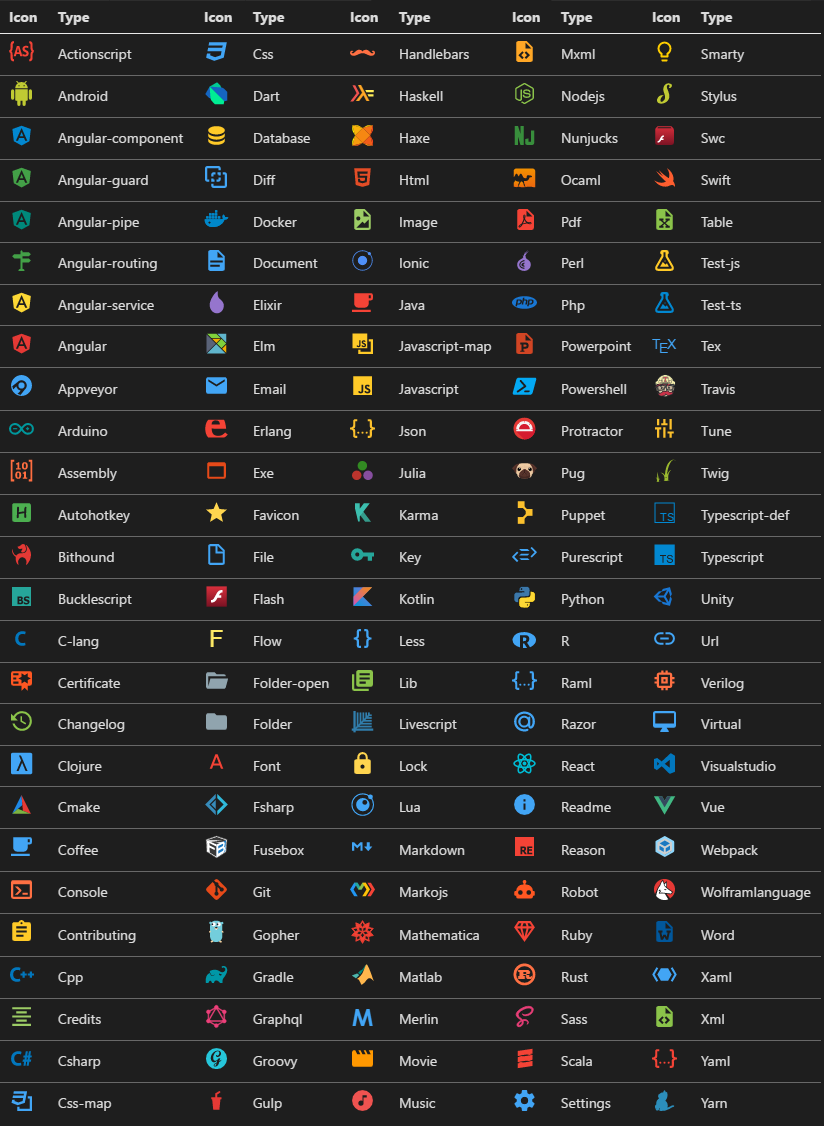
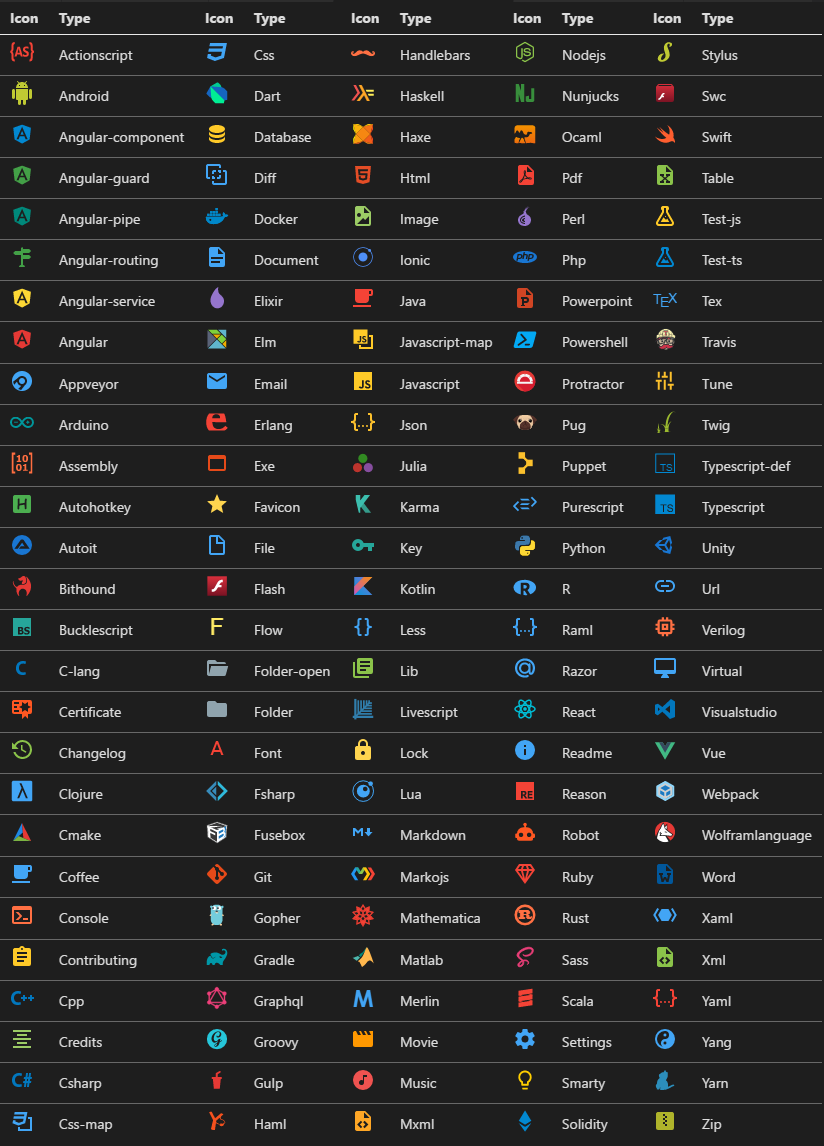
updated iconset

Changed region(s): [[0.4854, 0.0, 1.0, 0.9947], [0.0, 0.0, 0.4551, 0.9947], [0.4248, 0.0, 0.4551, 0.0311]]

diff --git a/images/iconsetScript.js b/images/iconsetScript.js
@@ -65,7 +65,7 @@ fs.readdir(folder, (err, files) => {
     // write the image tags for the icons
     for (let i = 0; i < items_per_column; i++) {
         for (let c = 0; c < columns_list.length; c++) {
-            fs.appendFileSync(path.join('images', generatedFileName), '|<img src="./../icons/' + columns_list[c][i].fileName + '" width="25px">|'+ columns_list[c][i].iconName);
+            fs.appendFileSync(path.join('images', generatedFileName), '|<img src="./../icons/' + columns_list[c][i].fileName + '" width="24px">|'+ columns_list[c][i].iconName);
         }
         fs.appendFileSync(path.join('images', generatedFileName), "|\n");
     }

diff --git a/images/allicons.md b/images/allicons.md
@@ -1,28 +1,29 @@
 |Icon|Type|Icon|Type|Icon|Type|Icon|Type|Icon|Type|
 |---|---|---|---|---|---|---|---|---|---|
-|<img src="./../icons/actionscript.svg" width="25px">|Actionscript|<img src="./../icons/css.svg" width="25px">|Css|<img src="./../icons/handlebars.svg" width="25px">|Handlebars|<img src="./../icons/mxml.svg" width="25px">|Mxml|<img src="./../icons/smarty.svg" width="25px">|Smarty|
-|<img src="./../icons/android.svg" width="25px">|Android|<img src="./../icons/dart.svg" width="25px">|Dart|<img src="./../icons/haskell.svg" width="25px">|Haskell|<img src="./../icons/nodejs.svg" width="25px">|Nodejs|<img src="./../icons/stylus.svg" width="25px">|Stylus|
-|<img src="./../icons/angular-component.svg" width="25px">|Angular-component|<img src="./../icons/database.svg" width="25px">|Database|<img src="./../icons/haxe.svg" width="25px">|Haxe|<img src="./../icons/nunjucks.svg" width="25px">|Nunjucks|<img src="./../icons/swc.svg" width="25px">|Swc|
-|<img src="./../icons/angular-guard.svg" width="25px">|Angular-guard|<img src="./../icons/diff.svg" width="25px">|Diff|<img src="./../icons/html.svg" width="25px">|Html|<img src="./../icons/ocaml.svg" width="25px">|Ocaml|<img src="./../icons/swift.svg" width="25px">|Swift|
-|<img src="./../icons/angular-pipe.svg" width="25px">|Angular-pipe|<img src="./../icons/docker.svg" width="25px">|Docker|<img src="./../icons/image.svg" width="25px">|Image|<img src="./../icons/pdf.svg" width="25px">|Pdf|<img src="./../icons/table.svg" width="25px">|Table|
-|<img src="./../icons/angular-routing.svg" width="25px">|Angular-routing|<img src="./../icons/document.svg" width="25px">|Document|<img src="./../icons/ionic.svg" width="25px">|Ionic|<img src="./../icons/perl.svg" width="25px">|Perl|<img src="./../icons/test-js.svg" width="25px">|Test-js|
-|<img src="./../icons/angular-service.svg" width="25px">|Angular-service|<img src="./../icons/elixir.svg" width="25px">|Elixir|<img src="./../icons/java.svg" width="25px">|Java|<img src="./../icons/php.svg" width="25px">|Php|<img src="./../icons/test-ts.svg" width="25px">|Test-ts|
-|<img src="./../icons/angular.svg" width="25px">|Angular|<img src="./../icons/elm.svg" width="25px">|Elm|<img src="./../icons/javascript-map.svg" width="25px">|Javascript-map|<img src="./../icons/powerpoint.svg" width="25px">|Powerpoint|<img src="./../icons/tex.svg" width="25px">|Tex|
-|<img src="./../icons/appveyor.svg" width="25px">|Appveyor|<img src="./../icons/email.svg" width="25px">|Email|<img src="./../icons/javascript.svg" width="25px">|Javascript|<img src="./../icons/powershell.svg" width="25px">|Powershell|<img src="./../icons/travis.svg" width="25px">|Travis|
-|<img src="./../icons/arduino.svg" width="25px">|Arduino|<img src="./../icons/erlang.svg" width="25px">|Erlang|<img src="./../icons/json.svg" width="25px">|Json|<img src="./../icons/protractor.svg" width="25px">|Protractor|<img src="./../icons/tune.svg" width="25px">|Tune|
-|<img src="./../icons/assembly.svg" width="25px">|Assembly|<img src="./../icons/exe.svg" width="25px">|Exe|<img src="./../icons/julia.svg" width="25px">|Julia|<img src="./../icons/pug.svg" width="25px">|Pug|<img src="./../icons/twig.svg" width="25px">|Twig|
-|<img src="./../icons/autohotkey.svg" width="25px">|Autohotkey|<img src="./../icons/favicon.svg" width="25px">|Favicon|<img src="./../icons/karma.svg" width="25px">|Karma|<img src="./../icons/puppet.svg" width="25px">|Puppet|<img src="./../icons/typescript-def.svg" width="25px">|Typescript-def|
-|<img src="./../icons/bithound.svg" width="25px">|Bithound|<img src="./../icons/file.svg" width="25px">|File|<img src="./../icons/key.svg" width="25px">|Key|<img src="./../icons/purescript.svg" width="25px">|Purescript|<img src="./../icons/typescript.svg" width="25px">|Typescript|
-|<img src="./../icons/bucklescript.svg" width="25px">|Bucklescript|<img src="./../icons/flash.svg" width="25px">|Flash|<img src="./../icons/kotlin.svg" width="25px">|Kotlin|<img src="./../icons/python.svg" width="25px">|Python|<img src="./../icons/unity.svg" width="25px">|Unity|
-|<img src="./../icons/c-lang.svg" width="25px">|C-lang|<img src="./../icons/flow.svg" width="25px">|Flow|<img src="./../icons/less.svg" width="25px">|Less|<img src="./../icons/r.svg" width="25px">|R|<img src="./../icons/url.svg" width="25px">|Url|
-|<img src="./../icons/certificate.svg" width="25px">|Certificate|<img src="./../icons/folder-open.svg" width="25px">|Folder-open|<img src="./../icons/lib.svg" width="25px">|Lib|<img src="./../icons/raml.svg" width="25px">|Raml|<img src="./../icons/verilog.svg" width="25px">|Verilog|
-|<img src="./../icons/changelog.svg" width="25px">|Changelog|<img src="./../icons/folder.svg" width="25px">|Folder|<img src="./../icons/livescript.svg" width="25px">|Livescript|<img src="./../icons/razor.svg" width="25px">|Razor|<img src="./../icons/virtual.svg" width="25px">|Virtual|
-|<img src="./../icons/clojure.svg" width="25px">|Clojure|<img src="./../icons/font.svg" width="25px">|Font|<img src="./../icons/lock.svg" width="25px">|Lock|<img src="./../icons/react.svg" width="25px">|React|<img src="./../icons/visualstudio.svg" width="25px">|Visualstudio|
-|<img src="./../icons/cmake.svg" width="25px">|Cmake|<img src="./../icons/fsharp.svg" width="25px">|Fsharp|<img src="./../icons/lua.svg" width="25px">|Lua|<img src="./../icons/readme.svg" width="25px">|Readme|<img src="./../icons/vue.svg" width="25px">|Vue|
-|<img src="./../icons/coffee.svg" width="25px">|Coffee|<img src="./../icons/fusebox.svg" width="25px">|Fusebox|<img src="./../icons/markdown.svg" width="25px">|Markdown|<img src="./../icons/reason.svg" width="25px">|Reason|<img src="./../icons/webpack.svg" width="25px">|Webpack|
-|<img src="./../icons/console.svg" width="25px">|Console|<img src="./../icons/git.svg" width="25px">|Git|<img src="./../icons/markojs.svg" width="25px">|Markojs|<img src="./../icons/robot.svg" width="25px">|Robot|<img src="./../icons/wolframlanguage.svg" width="25px">|Wolframlanguage|
-|<img src="./../icons/contributing.svg" width="25px">|Contributing|<img src="./../icons/gopher.svg" width="25px">|Gopher|<img src="./../icons/mathematica.svg" width="25px">|Mathematica|<img src="./../icons/ruby.svg" width="25px">|Ruby|<img src="./../icons/word.svg" width="25px">|Word|
-|<img src="./../icons/cpp.svg" width="25px">|Cpp|<img src="./../icons/gradle.svg" width="25px">|Gradle|<img src="./../icons/matlab.svg" width="25px">|Matlab|<img src="./../icons/rust.svg" width="25px">|Rust|<img src="./../icons/xaml.svg" width="25px">|Xaml|
-|<img src="./../icons/credits.svg" width="25px">|Credits|<img src="./../icons/graphql.svg" width="25px">|Graphql|<img src="./../icons/merlin.svg" width="25px">|Merlin|<img src="./../icons/sass.svg" width="25px">|Sass|<img src="./../icons/xml.svg" width="25px">|Xml|
-|<img src="./../icons/csharp.svg" width="25px">|Csharp|<img src="./../icons/groovy.svg" width="25px">|Groovy|<img src="./../icons/movie.svg" width="25px">|Movie|<img src="./../icons/scala.svg" width="25px">|Scala|<img src="./../icons/yaml.svg" width="25px">|Yaml|
-|<img src="./../icons/css-map.svg" width="25px">|Css-map|<img src="./../icons/gulp.svg" width="25px">|Gulp|<img src="./../icons/music.svg" width="25px">|Music|<img src="./../icons/settings.svg" width="25px">|Settings|<img src="./../icons/yarn.svg" width="25px">|Yarn|
+|<img src="./../icons/actionscript.svg" width="24px">|Actionscript|<img src="./../icons/css.svg" width="24px">|Css|<img src="./../icons/handlebars.svg" width="24px">|Handlebars|<img src="./../icons/nodejs.svg" width="24px">|Nodejs|<img src="./../icons/stylus.svg" width="24px">|Stylus|
+|<img src="./../icons/android.svg" width="24px">|Android|<img src="./../icons/dart.svg" width="24px">|Dart|<img src="./../icons/haskell.svg" width="24px">|Haskell|<img src="./../icons/nunjucks.svg" width="24px">|Nunjucks|<img src="./../icons/swc.svg" width="24px">|Swc|
+|<img src="./../icons/angular-component.svg" width="24px">|Angular-component|<img src="./../icons/database.svg" width="24px">|Database|<img src="./../icons/haxe.svg" width="24px">|Haxe|<img src="./../icons/ocaml.svg" width="24px">|Ocaml|<img src="./../icons/swift.svg" width="24px">|Swift|
+|<img src="./../icons/angular-guard.svg" width="24px">|Angular-guard|<img src="./../icons/diff.svg" width="24px">|Diff|<img src="./../icons/html.svg" width="24px">|Html|<img src="./../icons/pdf.svg" width="24px">|Pdf|<img src="./../icons/table.svg" width="24px">|Table|
+|<img src="./../icons/angular-pipe.svg" width="24px">|Angular-pipe|<img src="./../icons/docker.svg" width="24px">|Docker|<img src="./../icons/image.svg" width="24px">|Image|<img src="./../icons/perl.svg" width="24px">|Perl|<img src="./../icons/test-js.svg" width="24px">|Test-js|
+|<img src="./../icons/angular-routing.svg" width="24px">|Angular-routing|<img src="./../icons/document.svg" width="24px">|Document|<img src="./../icons/ionic.svg" width="24px">|Ionic|<img src="./../icons/php.svg" width="24px">|Php|<img src="./../icons/test-ts.svg" width="24px">|Test-ts|
+|<img src="./../icons/angular-service.svg" width="24px">|Angular-service|<img src="./../icons/elixir.svg" width="24px">|Elixir|<img src="./../icons/java.svg" width="24px">|Java|<img src="./../icons/powerpoint.svg" width="24px">|Powerpoint|<img src="./../icons/tex.svg" width="24px">|Tex|
+|<img src="./../icons/angular.svg" width="24px">|Angular|<img src="./../icons/elm.svg" width="24px">|Elm|<img src="./../icons/javascript-map.svg" width="24px">|Javascript-map|<img src="./../icons/powershell.svg" width="24px">|Powershell|<img src="./../icons/travis.svg" width="24px">|Travis|
+|<img src="./../icons/appveyor.svg" width="24px">|Appveyor|<img src="./../icons/email.svg" width="24px">|Email|<img src="./../icons/javascript.svg" width="24px">|Javascript|<img src="./../icons/protractor.svg" width="24px">|Protractor|<img src="./../icons/tune.svg" width="24px">|Tune|
+|<img src="./../icons/arduino.svg" width="24px">|Arduino|<img src="./../icons/erlang.svg" width="24px">|Erlang|<img src="./../icons/json.svg" width="24px">|Json|<img src="./../icons/pug.svg" width="24px">|Pug|<img src="./../icons/twig.svg" width="24px">|Twig|
+|<img src="./../icons/assembly.svg" width="24px">|Assembly|<img src="./../icons/exe.svg" width="24px">|Exe|<img src="./../icons/julia.svg" width="24px">|Julia|<img src="./../icons/puppet.svg" width="24px">|Puppet|<img src="./../icons/typescript-def.svg" width="24px">|Typescript-def|
+|<img src="./../icons/autohotkey.svg" width="24px">|Autohotkey|<img src="./../icons/favicon.svg" width="24px">|Favicon|<img src="./../icons/karma.svg" width="24px">|Karma|<img src="./../icons/purescript.svg" width="24px">|Purescript|<img src="./../icons/typescript.svg" width="24px">|Typescript|
+|<img src="./../icons/autoit.svg" width="24px">|Autoit|<img src="./../icons/file.svg" width="24px">|File|<img src="./../icons/key.svg" width="24px">|Key|<img src="./../icons/python.svg" width="24px">|Python|<img src="./../icons/unity.svg" width="24px">|Unity|
+|<img src="./../icons/bithound.svg" width="24px">|Bithound|<img src="./../icons/flash.svg" width="24px">|Flash|<img src="./../icons/kotlin.svg" width="24px">|Kotlin|<img src="./../icons/r.svg" width="24px">|R|<img src="./../icons/url.svg" width="24px">|Url|
+|<img src="./../icons/bucklescript.svg" width="24px">|Bucklescript|<img src="./../icons/flow.svg" width="24px">|Flow|<img src="./../icons/less.svg" width="24px">|Less|<img src="./../icons/raml.svg" width="24px">|Raml|<img src="./../icons/verilog.svg" width="24px">|Verilog|
+|<img src="./../icons/c-lang.svg" width="24px">|C-lang|<img src="./../icons/folder-open.svg" width="24px">|Folder-open|<img src="./../icons/lib.svg" width="24px">|Lib|<img src="./../icons/razor.svg" width="24px">|Razor|<img src="./../icons/virtual.svg" width="24px">|Virtual|
+|<img src="./../icons/certificate.svg" width="24px">|Certificate|<img src="./../icons/folder.svg" width="24px">|Folder|<img src="./../icons/livescript.svg" width="24px">|Livescript|<img src="./../icons/react.svg" width="24px">|React|<img src="./../icons/visualstudio.svg" width="24px">|Visualstudio|
+|<img src="./../icons/changelog.svg" width="24px">|Changelog|<img src="./../icons/font.svg" width="24px">|Font|<img src="./../icons/lock.svg" width="24px">|Lock|<img src="./../icons/readme.svg" width="24px">|Readme|<img src="./../icons/vue.svg" width="24px">|Vue|
+|<img src="./../icons/clojure.svg" width="24px">|Clojure|<img src="./../icons/fsharp.svg" width="24px">|Fsharp|<img src="./../icons/lua.svg" width="24px">|Lua|<img src="./../icons/reason.svg" width="24px">|Reason|<img src="./../icons/webpack.svg" width="24px">|Webpack|
+|<img src="./../icons/cmake.svg" width="24px">|Cmake|<img src="./../icons/fusebox.svg" width="24px">|Fusebox|<img src="./../icons/markdown.svg" width="24px">|Markdown|<img src="./../icons/robot.svg" width="24px">|Robot|<img src="./../icons/wolframlanguage.svg" width="24px">|Wolframlanguage|
+|<img src="./../icons/coffee.svg" width="24px">|Coffee|<img src="./../icons/git.svg" width="24px">|Git|<img src="./../icons/markojs.svg" width="24px">|Markojs|<img src="./../icons/ruby.svg" width="24px">|Ruby|<img src="./../icons/word.svg" width="24px">|Word|
+|<img src="./../icons/console.svg" width="24px">|Console|<img src="./../icons/gopher.svg" width="24px">|Gopher|<img src="./../icons/mathematica.svg" width="24px">|Mathematica|<img src="./../icons/rust.svg" width="24px">|Rust|<img src="./../icons/xaml.svg" width="24px">|Xaml|
+|<img src="./../icons/contributing.svg" width="24px">|Contributing|<img src="./../icons/gradle.svg" width="24px">|Gradle|<img src="./../icons/matlab.svg" width="24px">|Matlab|<img src="./../icons/sass.svg" width="24px">|Sass|<img src="./../icons/xml.svg" width="24px">|Xml|
+|<img src="./../icons/cpp.svg" width="24px">|Cpp|<img src="./../icons/graphql.svg" width="24px">|Graphql|<img src="./../icons/merlin.svg" width="24px">|Merlin|<img src="./../icons/scala.svg" width="24px">|Scala|<img src="./../icons/yaml.svg" width="24px">|Yaml|
+|<img src="./../icons/credits.svg" width="24px">|Credits|<img src="./../icons/groovy.svg" width="24px">|Groovy|<img src="./../icons/movie.svg" width="24px">|Movie|<img src="./../icons/settings.svg" width="24px">|Settings|<img src="./../icons/yang.svg" width="24px">|Yang|
+|<img src="./../icons/csharp.svg" width="24px">|Csharp|<img src="./../icons/gulp.svg" width="24px">|Gulp|<img src="./../icons/music.svg" width="24px">|Music|<img src="./../icons/smarty.svg" width="24px">|Smarty|<img src="./../icons/yarn.svg" width="24px">|Yarn|
+|<img src="./../icons/css-map.svg" width="24px">|Css-map|<img src="./../icons/haml.svg" width="24px">|Haml|<img src="./../icons/mxml.svg" width="24px">|Mxml|<img src="./../icons/solidity.svg" width="24px">|Solidity|<img src="./../icons/zip.svg" width="24px">|Zip|
